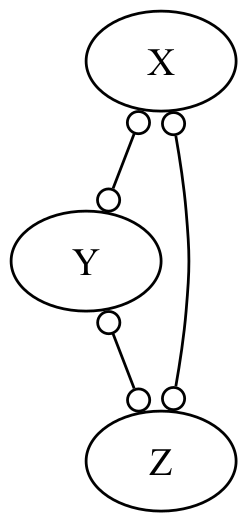
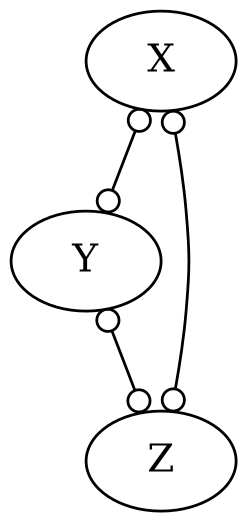
small run

diff --git a/utils.py b/utils.py
@@ -107,8 +107,8 @@ def generate_graph_from_causes(direct_causes):
     for rel in direct_causes:
         if rel["edge"] == "direct" and rel["exists"]:
             graph.add_edge(pydot.Edge(rel["node1"], rel["node2"]))
-        elif rel["edge"] == "latent" and rel["exists"]:
-            graph.add_edge(pydot.Edge(rel["node1"], rel["node2"], style="dotted", arrowhead="none"))
+        # elif rel["edge"] == "latent" and rel["exists"]:
+        #     graph.add_edge(pydot.Edge(rel["node1"], rel["node2"], style="dotted", arrowhead="none"))
     
     return graph
 

diff --git a/SAT/quantum.py b/SAT/quantum.py
@@ -91,7 +91,7 @@ def solveQuantumSAT(cnf, debug=False):
     
     if debug: print(f"DEBUG: {np.pi/4 * math.sqrt(2**n_variables)} reps")
     
-    reps = math.ceil(np.pi/4 * math.sqrt(2**n_variables)) 
+    reps = math.ceil(np.pi/4 * math.sqrt(2**n_variables)) + 1
     
     qc = QuantumCircuit(n)
     
